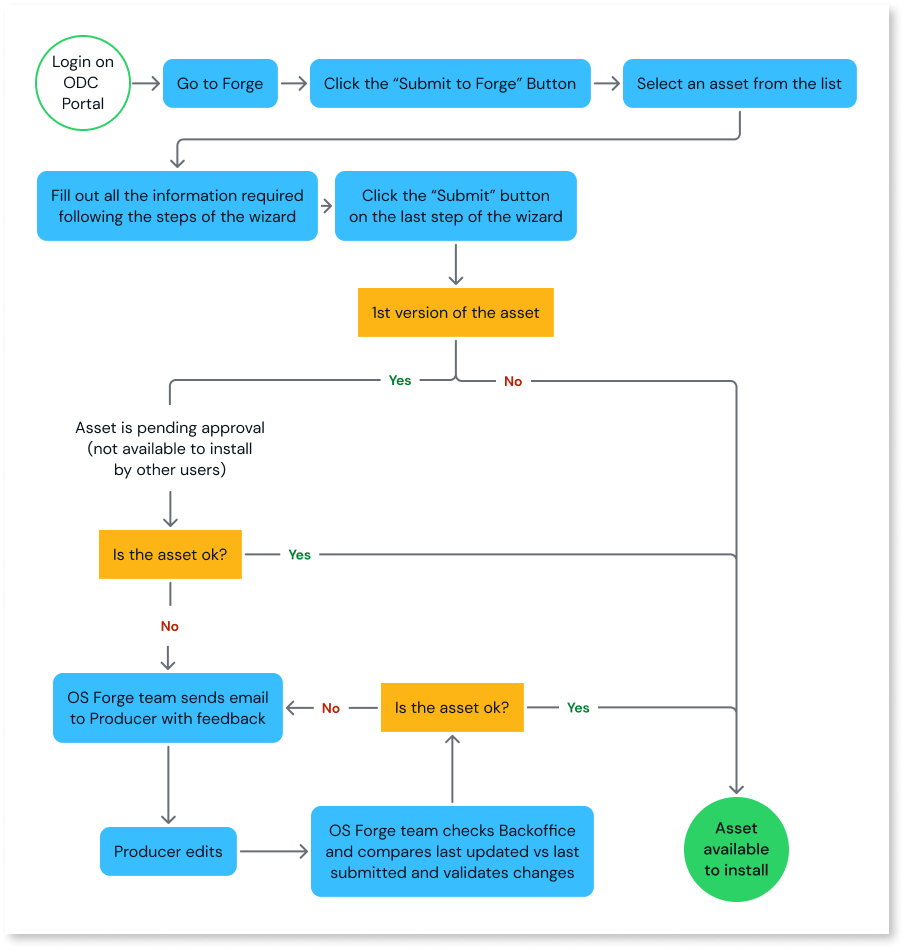
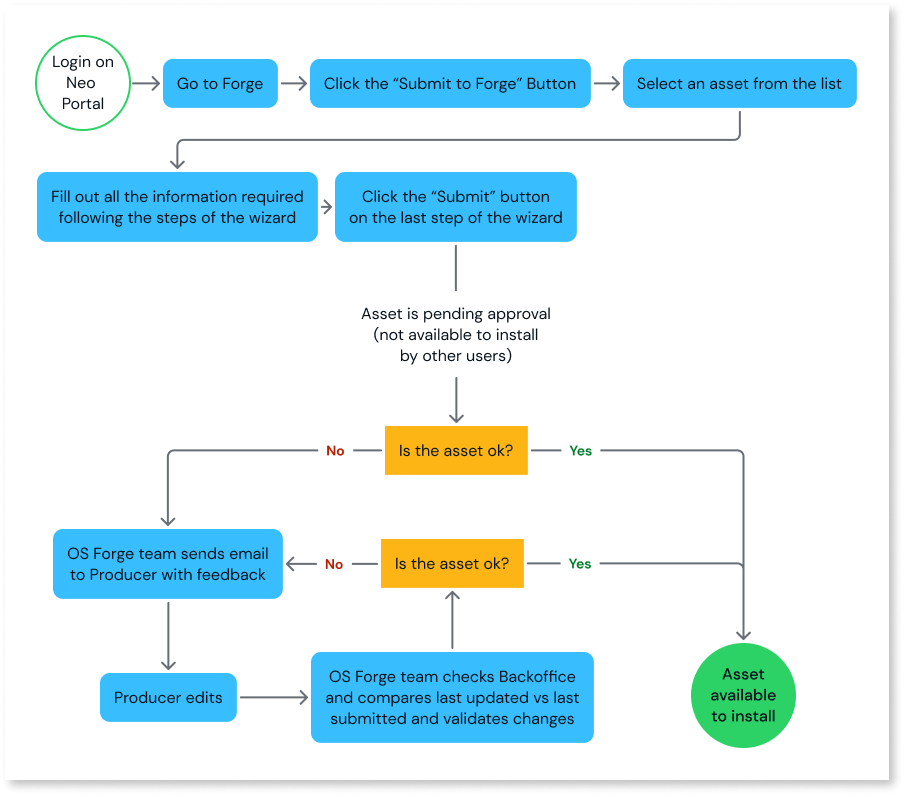
Update of submission process in Forge (#215)
* edits made, image updated

* edit and image update

Changed region(s): [[0.031, 0.0302, 0.9602, 0.5132], [0.0619, 0.4226, 0.8982, 0.966], [0.0929, 0.8151, 0.6814, 0.966]]

diff --git a/src/eap/forge/submit.md b/src/eap/forge/submit.md
@@ -14,9 +14,7 @@ The following diagram shows the asset submission journey. The journey is slightl
 
 ![Submission process in Forge](images/submit-asset-forge-diag.png)
 
-When you submit a new asset, it gets reviewed by the OutSystems Forge team to make sure it meets the requirements. The asset is added to the Forge Repository, and from ODC Portal, you can see it in Forge and edit the information on the detail page. The asset is only visible to you (the owner) and not to users outside your organization. Once it is approved all users outside your organization can access your asset. Users then see an **Install** button on the asset.
-
-When a new version of the asset is submitted to Forge, it doesn't go through the approval process; it's immediately made available after submission. Other users see an **Update** button, indicating that a new version of the asset is available to install.
+When you submit a new asset, it gets reviewed by the OutSystems Forge team to make sure it meets the requirements. The asset is added to the Forge Repository, and from ODC Portal, you can see it in Forge and edit the information on the detail page. The asset is only visible to you (the owner) and not to users outside your organization. Once it is approved, all users outside your organization can access your asset. Users see an **Install** button on the asset. If it's a new version, users see an **Update** button, indicating that a new version of the asset is available to install.
 
 When you submit a library, it doesn't have to be in the Production environment. Libraries in Forge are automatically versioned. When a new version is submitted, the increase is on the patch.
 
@@ -25,25 +23,25 @@ When you submit a library, it doesn't have to be in the Production environment. 
 To submit an asset, your asset must meet the following prerequisites:
 
 * Asset names must be unique. The name can't be the same as a name used for a previously submitted Forge asset.
-* Submit any dependencies first, because you can’t proceed with submission if you’re missing a dependency.
-* Apps must be deployed to Production.
-* Assets must have a short description which you can edit in ODC Studio.
+* Submit any dependencies first because you can’t proceed with submission if you’re missing a dependency.
+* Apps must be versioned.
+* Assets must have a short description that you can edit in ODC Studio.
 * The asset name of this version must be the same as its previous version.
 
 ## Submit an asset to Forge
 
-You can submit assets to Forge without needing to upload your asset. When you access Forge, you see a list of developed assets to select from your organization context.
+You can submit assets to Forge without needing to upload your asset. When you access Forge, you see a list of developed assets to select from your organizations context.
 
 By default, the Asset name, the icon, and the short description are the ones defined during the development. You can change them in ODC Studio and submit a new version with the changes. The short description displays on the asset's card.
 
 1. Log into ODC Portal and select **Forge**, from the left-side menu. A list of assets available to install on your organization displays.  
 1. On the top right, click the **Submit to Forge** button. A list of assets developed in your organization displays.
-1. From this list of assets, select the one you want to submit. 
+1. From this list of assets, select the one you want to submit.
 1. Enter a detailed summary of your asset. Make sure it fully describes the asset's features and the problem(s) it solves.
-1. Add any limitations that might exist, such as images might not size correctly in some browsers. 
+1. Add any limitations that might exist, such as images might not size correctly in some browsers.
 1. Add images that best illustrate the asset's features, main use cases, and behavior.
-1. Add the team contact. 
-1. Add clear and concise documentation to guide developers on how to install and configure the asset along with general instructions on how to use it. 
+1. Add the team contact.
+1. Add clear and concise documentation to guide developers on how to install and configure the asset along with general instructions on how to use it.
 1. Click **Submit** to finalize the process.
 
 ## Submit a new asset version to Forge
@@ -51,17 +49,15 @@ By default, the Asset name, the icon, and the short description are the ones def
 When an asset gets updated, resubmit it to Forge to share the changes. Keep the following in mind:
 
 * The updated asset must have the same name as the original asset.
-* The updated asset doesn't need to be approved by OutSystems.
 * For libraries, the version number automatically increases on the patch.
 
 Follow these steps to submit a new version of your asset:
 
-1. On the top right, click the **Submit to Forge** button. A list of assets developed in your organization displays. 
-1. From this list, select the asset which has a new version to be submitted.
+1. On the top right, click the **Submit to Forge** button. A list of assets developed in your organization displays.
+1. From this list, select the asset with the new version that you want to submit.
 1. Enter release notes that describe the changes you made to the asset.
-1. Enter a detailed summary of your asset. Make sure it fully describes the asset's features and the problem(s) it solves.
-1. Add any limitations that might exist, such as images might not size correctly in some browsers.
-1. Add images that best illustrate the asset's features, main use cases, and behavior.
-1. Add the team contact.
-1. Optionally, edit the documentation of the asset.
+1. Enter the detailed description and any limitations, if needed.
+1. Review the images that best illustrate the asset's features, main use cases, and behavior.
+1. Optionally, add or edit the team contact.
+1. Edit the documentation of the asset (if needed).
 1. Click **Submit** to finalize the process.
